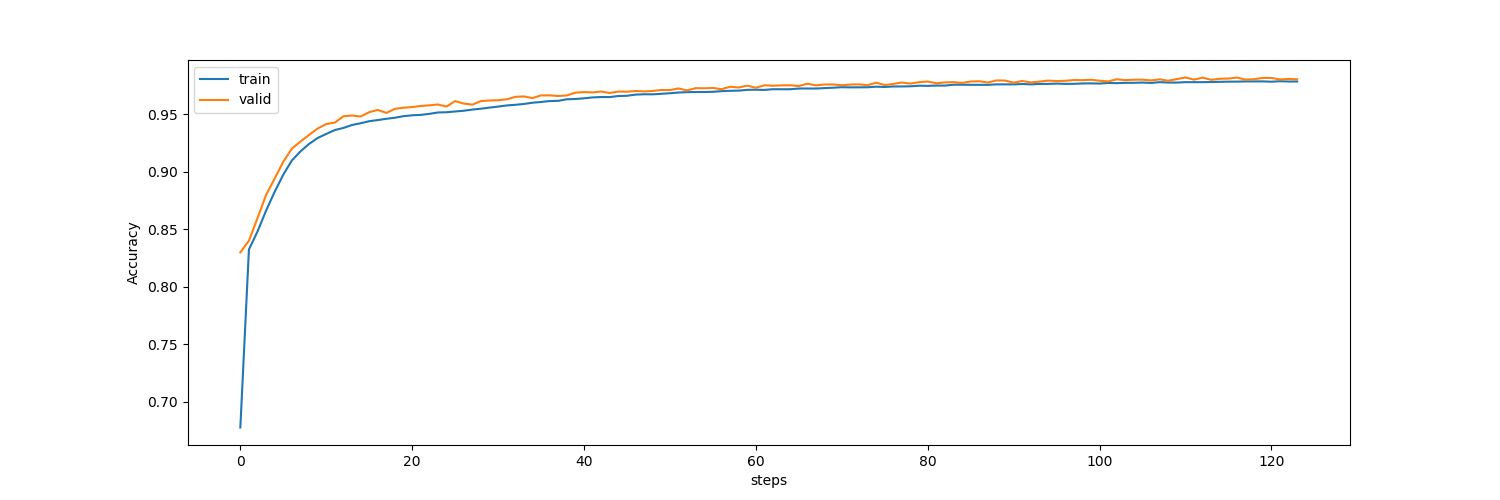
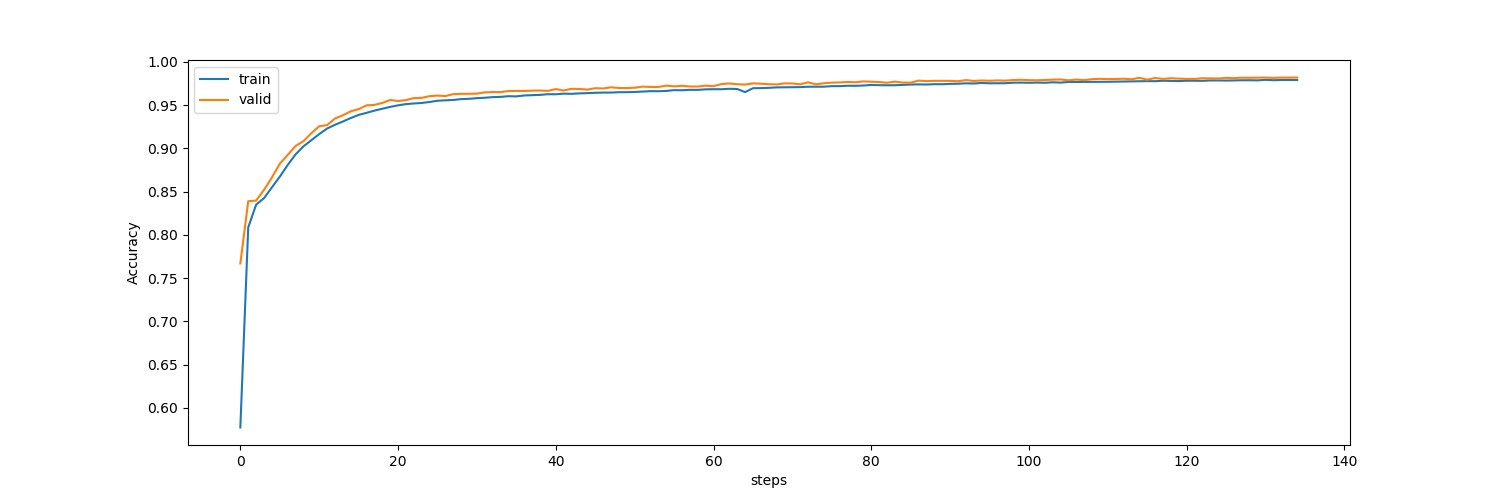
update readme

diff --git a/README.md b/README.md
@@ -1,6 +1,6 @@
 # transformer-word-segmenter
 
-This is a Named entity identification Model base on [Universal Transformer](https://arxiv.org/abs/1807.03819) which can be used for Chinese word segmentation.
+This is a sequence labelling model base on [Universal Transformer](https://arxiv.org/abs/1807.03819) which can be used for Chinese word segmentation.
 
 ## Install
 
@@ -17,7 +17,7 @@ if __name__ == '__main__':
     segmenter: TFSegmenter = get_or_create("../data/default-config.json",
                                            src_dict_path="../data/src_dict.json",
                                            tgt_dict_path="../data/tgt_dict.json",
-                                           weights_path="../models/weights.117--0.02.h5")
+                                           weights_path="../models/weights.129-0.00.h5")
 ```
 
 It accepts four params:
@@ -31,12 +31,11 @@ And then, call `decode_texts` to cut setences.
 
 ```python
 texts = [
-        "昨晚，英国首相特里萨·梅(Theresa May)试图挽救其退欧协议的努力，在布鲁塞尔遭遇了严重麻烦。"
-        "倍感失望的欧盟领导人们指责她没有拿出可行的提案来向充满敌意的英国议会兜售她的退欧计划。"
+
+        "巴纳德星的名字起源于一百多年前一位名叫爱德华·爱默生·巴纳德的天文学家。"
+        "他发现有一颗星在夜空中划过的速度很快，这引起了他极大的注意。"
         ,
-        "物理仿真引擎的作用，是让虚拟世界中的物体运动符合真实世界的物理定律，经常用于游戏领域，以便让画面看起来更富有真实感。"
-        "PhysX是由英伟达提出的物理仿真引擎，其物理模拟计算由专门加速芯片 GPU 来进行处理，"
-        "在节省 CPU 负担的同时，还能使物理运算效能成倍提升，由此带来更加符合真实世界的物理效果。"
+        "印度尼西亚国家抗灾署此前发布消息证实，印尼巽他海峡附近的万丹省当地时间22号晚遭海啸袭击。"
     ]
 
 for sent, tag in segmenter.decode_texts(texts):
@@ -47,12 +46,25 @@ for sent, tag in segmenter.decode_texts(texts):
 Results:
 
 ```python
-['昨晚', '，', '英国', '首相', '特里萨·梅', '(', 'TheresaMay', ')', '试图', '挽救', '其', '退', '欧', '协议', '的', '努力', '，', '在', '布鲁塞尔', '遭遇', '了', '严重', '麻烦', '。', '倍感', '失望', '的', '欧盟', '领导', '人们', '指责', '她', '没有', '拿出', '可行', '的', '提案', '来', '向', '充满敌意', '的', '英国议会', '兜售', '她', '的', '退', '欧', '计划', '。']
-['t', 'w', 'ns', 'nnt', 'nrf', 'w', 'x', 'w', 'v', 'vn', 'rz', 'v', 'b', 'n', 'ude1', 'ad', 'w', 'p', 'nsf', 'v', 'ule', 'a', 'an', 'w', 'v', 'a', 'ude1', 'n', 'n', 'n', 'v', 'rr', 'v', 'v', 'a', 'ude1', 'n', 'vf', 'p', 'nz', 'ude1', 'nt', 'v', 'rr', 'ude1', 'vn', 'b', 'n', 'w']
-['物理', '仿真', '引擎', '的', '作用', '，', '是', '让', '虚拟世界', '中', '的', '物体', '运动', '符合', '真实', '世界', '的', '物理定律', '，', '经常', '用于', '游戏', '领域', '，', '以便', '让', '画面', '看起来', '更', '富有', '真实感', '。', 'PhysX', '是', '由', '英伟达', '提出', '的', '物理', '仿真', '引擎', '，', '其', '物理模拟', '计算', '由', '专门', '加速', '芯片', 'GPU', '来', '进行', '处理', '，', '在', '节省', 'CPU', '负担', '的', '同时', '，', '还', '能', '使', '物理运算', '效能', '成倍', '提升', '，', '由此', '带来', '更加', '符合', '真实', '世界', '的', '物理', '效果', '。']
-['n', 'vn', 'n', 'ude1', 'n', 'w', 'vshi', 'v', 'gi', 'f', 'ude1', 'n', 'vn', 'v', 'a', 'n', 'ude1', 'nz', 'w', 'd', 'v', 'n', 'n', 'w', 'd', 'v', 'n', 'v', 'd', 'v', 'n', 'w', 'x', 'vshi', 'p', 'nz', 'v', 'ude1', 'n', 'vn', 'n', 'w', 'rz', 'nz', 'vn', 'p', 'd', 'vi', 'n', 'x', 'vf', 'vn', 'vn', 'w', 'p', 'v', 'x', 'n', 'ude1', 'c', 'w', 'd', 'v', 'v', 'nz', 'n', 'd', 'v', 'w', 'd', 'v', 'd', 'v', 'a', 'n', 'ude1', 'n', 'n', 'w']
+['巴纳德星', '的', '名字', '起源于', '一百', '多年前', '一位',
+'名叫', '爱德华·爱默生·巴纳德', '的', '天文学家', '。',
+'他', '发现', '有', '一颗', '星', '在', '夜空', '中', '划过', '的', '速度', '很快', '，',
+'这', '引起', '了', '他', '极大', '的', '注意', '。']
+['nrf', 'ude1', 'n', 'v', 'm', 'd', 'mq',
+'v', 'nrf', 'ude1', 'nnd', 'w',
+'rr', 'v', 'vyou', 'mq', 'n', 'p', 'n', 'f', 'v', 'ude1', 'n', 'd', 'w',
+'rzv', 'v', 'ule', 'rr', 'a', 'ude1', 'vn', 'w']
+
+['印度尼西亚', '国家', '抗灾署', '此前', '发布', '消息', '证实', '，',
+ '印尼', '巽他海峡', '附近', '的', '万丹省',
+ '当地时间', '22号', '晚', '遭', '海啸', '袭击', '。']
+['nsf', 'n', 'nz', 't', 'v', 'n', 'v', 'w',
+ 'ns', 'ns', 'f', 'ude1', 'ns',
+ 'nz', 'mq', 'tg', 'v', 'n', 'vn', 'w']
 
 ```
+
+It can identify words that have never been seen before such as `巽他海峡`、`万丹省` and so on.
 
 config, weigts and dictionaries link:
 
@@ -122,10 +134,10 @@ The config used as follow:
   "tgt_vocab_size": 259,
   "max_seq_len": 256,
   "max_depth": 2,
-  "model_dim": 320,
+  "model_dim": 256,
   "confidence_penalty_weight": 0.1,
   "l2_reg_penalty": 1e-06,
-  "residual_dropout": 0.2,
+  "residual_dropout": 0.1,
   "attention_dropout": 0.0,
   "compression_window_size": null,
   "use_masking": true,
@@ -138,9 +150,9 @@ The config used as follow:
 And with:
 
 ```python
-batch_size = 64
-steps_per_epoch = 500
-validation_steps = 50
+batch_size = 128
+steps_per_epoch = 250
+validation_steps = 25
 ```
 
 The training data is divided into training set and verification set according to the ratio of 8:2.
@@ -154,14 +166,14 @@ After 128 epochs, the accuracy of the verification set reached 98 %.
     <img src="assets/loss.png">
 </div>
 
-Test set (`2014-people/test`) evaluation results:
+Test set (`2014-people/test`) evaluation results for word segmetion:
 
 ```python
 result-(epoch:128):
-Word number：8810, Number of words correct rate：0.956640, Number of words error rate：0.049716
-Line number：169, Number of lines correct rate：0.396450, Number of lines error rate：0.603550
-Recall: 0.956640
-Precision: 0.950598
-F MEASURE: 0.953609
-ERR RATE: 0.049716
+Word number：20744个, words correct rate：0.922050, words error rate：0.067875 
+Line number：317, lines correct rate：0.343849,  lines error rate：0.656151 
+Recall: 0.922050
+Precision: 0.931434
+F MEASURE: 0.926718
+ERR RATE: 0.067875
 ```
